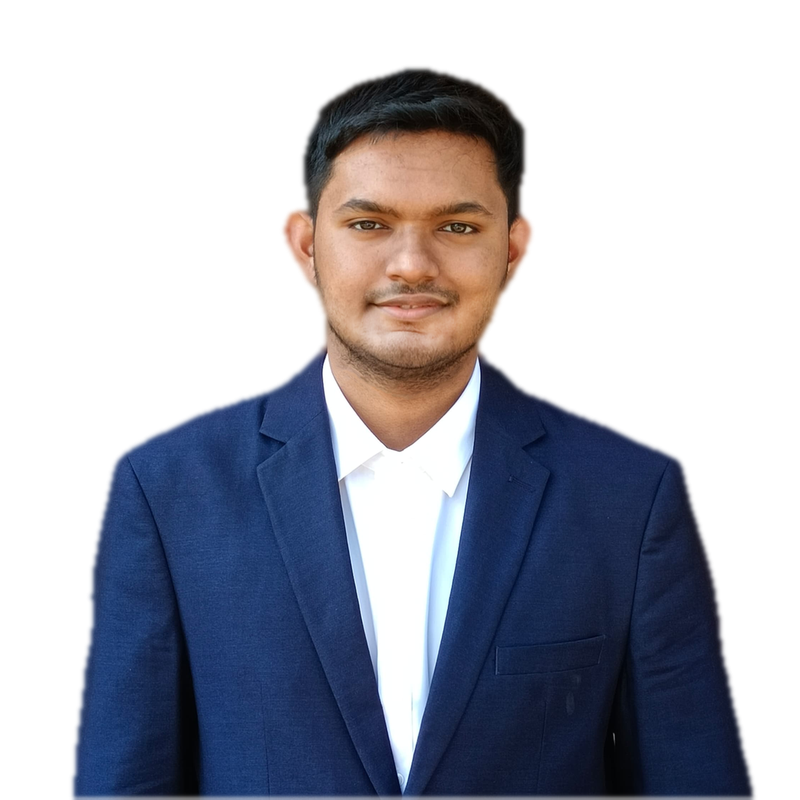
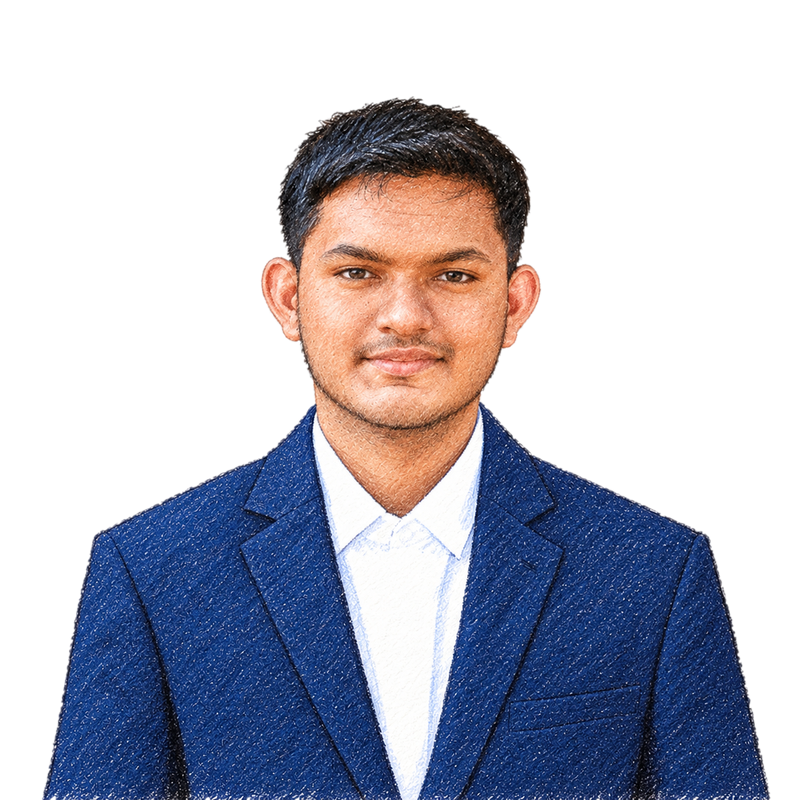
Update portrait with framed photo, About Me text, and add Calculator and backend projects

diff --git a/index.html b/index.html
@@ -62,18 +62,26 @@
       <div class="about-grid">
         <div class="about-text">
           <p>
-            Hello! I enjoy creating things that live on the internet. My interest
-            in web development started years ago, and since then I've worked on
-            everything from small personal sites to full-scale applications.
+            Hello! I enjoy building things that live on the internet. My journey
+            in programming started years ago, and since then, I’ve explored
+            different areas of technology.
           </p>
           <p>
-            My main focus these days is building accessible, inclusive products
-            and digital experiences. When I'm not at the computer, you'll find me
-            reading, hiking, or experimenting with new recipes.
+            My current interests include cybersecurity, networking, and backend
+            development. I enjoy learning how systems work behind the scenes,
+            exploring security challenges, and building reliable applications.
+          </p>
+          <p>
+            When I’m away from my computer, you’ll find me traveling, watching
+            movies, or exploring new things.
           </p>
         </div>
         <div class="about-avatar">
-          <img class="avatar" src="images/rafsan.png" alt="Portrait of Rafsan Alam" width="800" height="800" loading="lazy" />
+          <div class="avatar-frame">
+            <div class="avatar-clip">
+              <img class="avatar" src="images/rafsan.png" alt="Portrait of Rafsan Alam" width="800" height="800" loading="lazy" />
+            </div>
+          </div>
         </div>
       </div>
     </section>
@@ -82,6 +90,24 @@
     <section id="projects" class="section container reveal">
       <h3 class="section-title"><span>02.</span> Projects</h3>
       <div class="project-grid">
+        <article class="card">
+          <div class="card-top">
+            <svg class="icon" viewBox="0 0 24 24" fill="none" stroke="currentColor" stroke-width="1.6" stroke-linecap="round"><rect x="5" y="2.5" width="14" height="19" rx="2"/><path d="M8 6.5h8M8 11h.01M12 11h.01M16 11h.01M8 14.5h.01M12 14.5h.01M16 14.5h.01M8 18h.01M12 18h.01M16 18h.01"/></svg>
+            <a href="https://github.com/rafsan0079/Calculator" class="card-link" target="_blank" rel="noopener" aria-label="View Calculator on GitHub">↗</a>
+          </div>
+          <h4>Calculator</h4>
+          <p>A native macOS calculator with a photo background, frosted-glass buttons, a live equation line and full keyboard support.</p>
+          <ul class="tags"><li>Swift</li><li>SwiftUI</li><li>macOS</li></ul>
+        </article>
+        <article class="card">
+          <div class="card-top">
+            <svg class="icon" viewBox="0 0 24 24" fill="none" stroke="currentColor" stroke-width="1.6" stroke-linecap="round"><rect x="3" y="4" width="18" height="7" rx="1.5"/><rect x="3" y="13" width="18" height="7" rx="1.5"/><path d="M7 7.5h.01M7 16.5h.01"/></svg>
+            <a href="https://github.com/rafsan0079/BACKEND_1" class="card-link" target="_blank" rel="noopener" aria-label="View backend project on GitHub">↗</a>
+          </div>
+          <h4>Todo App Backend</h4>
+          <p>A REST API for a todo app with user sign-up and login, hashed passwords, JWT-protected routes and a SQL database.</p>
+          <ul class="tags"><li>Node.js</li><li>Express</li><li>JWT</li><li>SQLite</li></ul>
+        </article>
         <article class="card">
           <div class="card-top">
             <svg class="icon" viewBox="0 0 24 24" fill="none" stroke="currentColor" stroke-width="1.6"><path d="M3 7a2 2 0 0 1 2-2h4l2 2h8a2 2 0 0 1 2 2v8a2 2 0 0 1-2 2H5a2 2 0 0 1-2-2z"/></svg>

diff --git a/styles.css b/styles.css
@@ -493,16 +493,74 @@ h1, h2, h3, h4,
   justify-content: center;
 }
 
+/* Pop-out frame: tinted square + offset dashed outline, head breaks out above the top edge */
+.avatar-frame {
+  --size: 280px;
+  --frame-radius: 24px;
+  position: relative;
+  width: var(--size);
+  height: var(--size);
+  margin-top: 84px;
+  isolation: isolate;
+}
+
+.avatar-frame::before,
+.avatar-frame::after {
+  content: "";
+  position: absolute;
+  border-radius: var(--frame-radius);
+  z-index: -1;
+}
+
+.avatar-frame::before {
+  inset: 0;
+  background:
+    radial-gradient(circle at 50% 30%, var(--glow), transparent 65%),
+    linear-gradient(160deg, var(--accent-soft), transparent 70%),
+    var(--surface);
+  box-shadow: 0 0 0 1px var(--border), 0 18px 48px var(--glow);
+}
+
+.avatar-frame::after {
+  inset: 0;
+  border: 2px dashed var(--accent);
+  opacity: 0.4;
+  transform: translate(14px, 14px);
+  transition: transform var(--transition), opacity var(--transition);
+}
+
+.avatar-frame:hover::after {
+  transform: translate(8px, 8px);
+  opacity: 0.65;
+}
+
+/* Open at the top, rounded to the square's corners at the bottom */
+.avatar-clip {
+  position: absolute;
+  inset: 0;
+  clip-path: inset(-60% 0 0 0 round 0 0 var(--frame-radius) var(--frame-radius));
+}
+
 .avatar {
+  position: absolute;
+  left: 50%;
+  bottom: 0;
   display: block;
-  width: 280px;
+  width: 142%;
   height: auto;
-  aspect-ratio: 1;
-  object-fit: cover;
-  object-position: center bottom;
-  /* Transparent cutout: fade the cropped bottom edge into the page background */
-  -webkit-mask-image: linear-gradient(to bottom, #000 90%, transparent);
-  mask-image: linear-gradient(to bottom, #000 90%, transparent);
+  transform: translateX(-50%);
+  transition: transform var(--transition);
+}
+
+.avatar-frame:hover .avatar {
+  transform: translateX(-50%) translateY(-4px);
+}
+
+@media (prefers-reduced-motion: reduce) {
+  .avatar-frame::after,
+  .avatar {
+    transition: none;
+  }
 }
 
 /* ---------- Projects ---------- */
@@ -748,8 +806,10 @@ h1, h2, h3, h4,
     justify-content: flex-start;
   }
 
-  .avatar {
-    width: 200px;
+  .avatar-frame {
+    --size: 200px;
+    --frame-radius: 18px;
+    margin: 60px 14px 14px 0;
   }
 }
 
